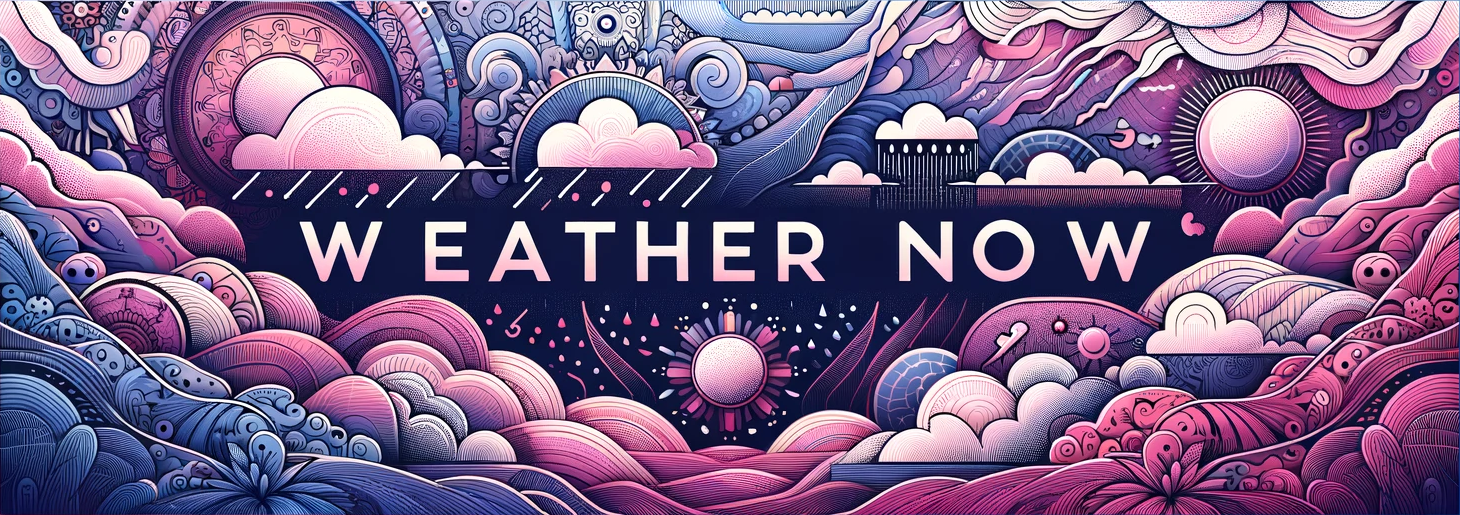
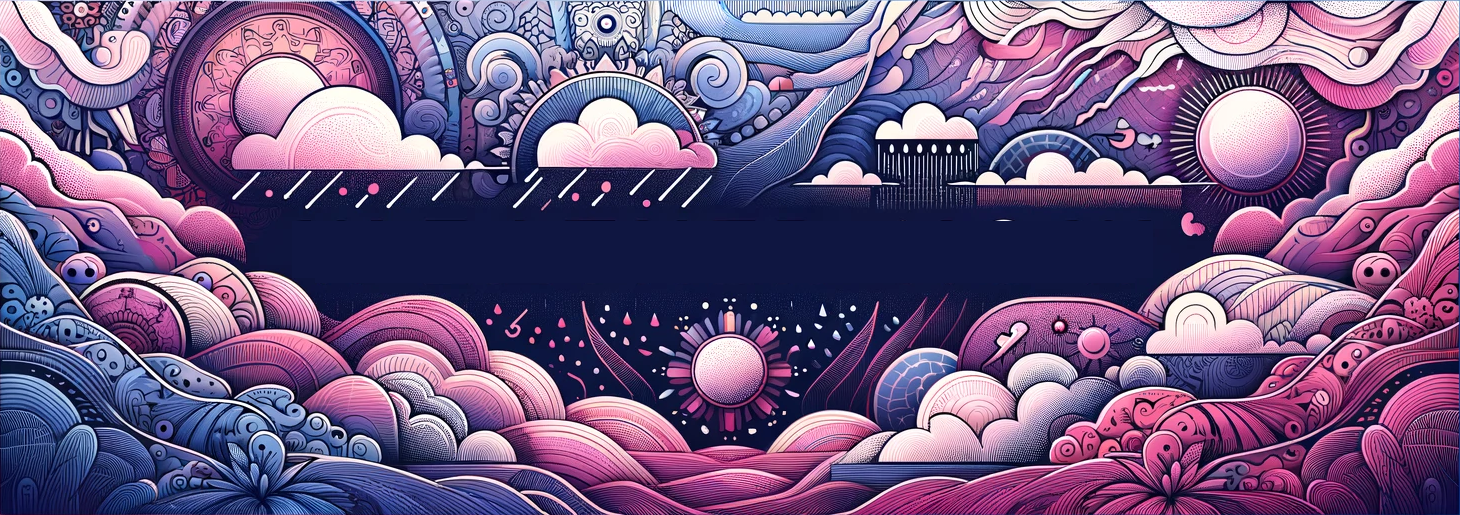
Styles: Update header in style.css and index.html

Changed region(s): [[0.1849, 0.4039, 0.5856, 0.5592], [0.6164, 0.4039, 0.8014, 0.5592]]

diff --git a/assets/css/style.css b/assets/css/style.css
@@ -77,7 +77,8 @@ main {
     padding: 1.25rem;
     border-radius: 5px;
     width: 100%;
-    background-color: rgba(0, 0, 0, .05);
+    background-color: rgba(0, 0, 0, .5);
+    width: 90%;
 }
 
 /* Main styles */
@@ -769,16 +770,11 @@ footer {
 @media screen and (min-width: 1024px) {
 
     /* Header styles */
-    .container{
-        background-image: url(../images/banner2.png);
-        background-size: 1700px 200px;
-        background-repeat: repeat;
-        /* margin: 0 10%; */
-    }
+    
     .container h1 {
-        width: 50%;
-        /* font-size: 2.5rem;
-        height: 8rem; */
+        width: 61%;
+        font-size: 2.5rem;
+        /* height: 8rem; */
     }
 
     /* Main styles */

diff --git a/index.html b/index.html
@@ -33,7 +33,7 @@
         <div class="logo-now">Weather Now</div>
       </div>
       <div class="container">
-        <h1></h1>
+        <h1>Weather Now</h1>
       </div>
     </header>
     <!-- Main Section -->
